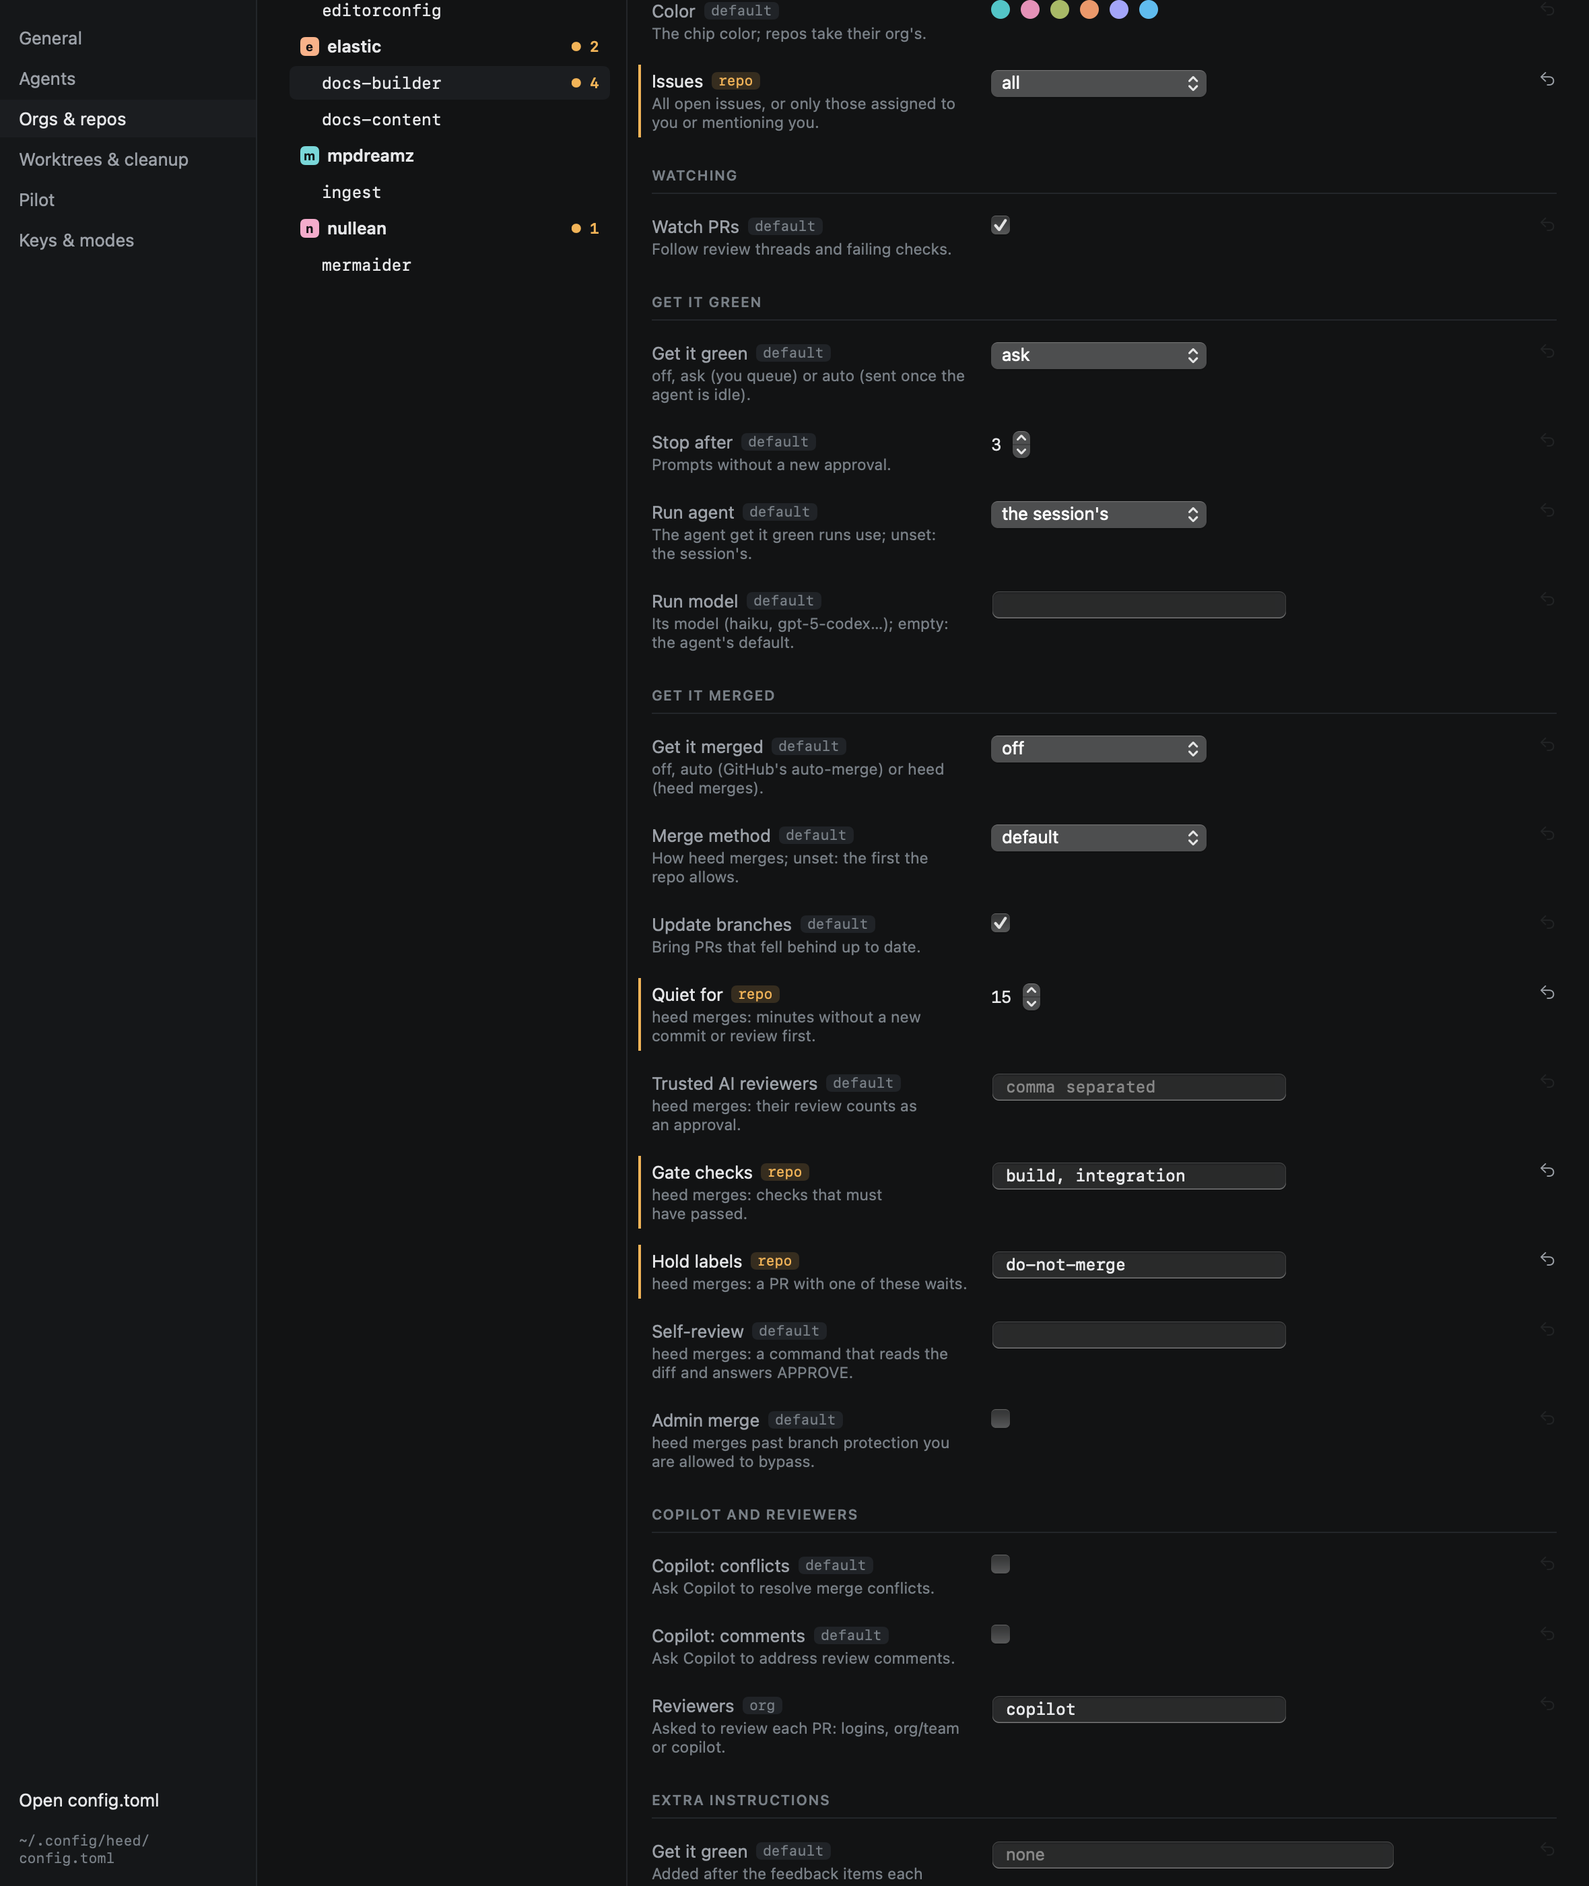
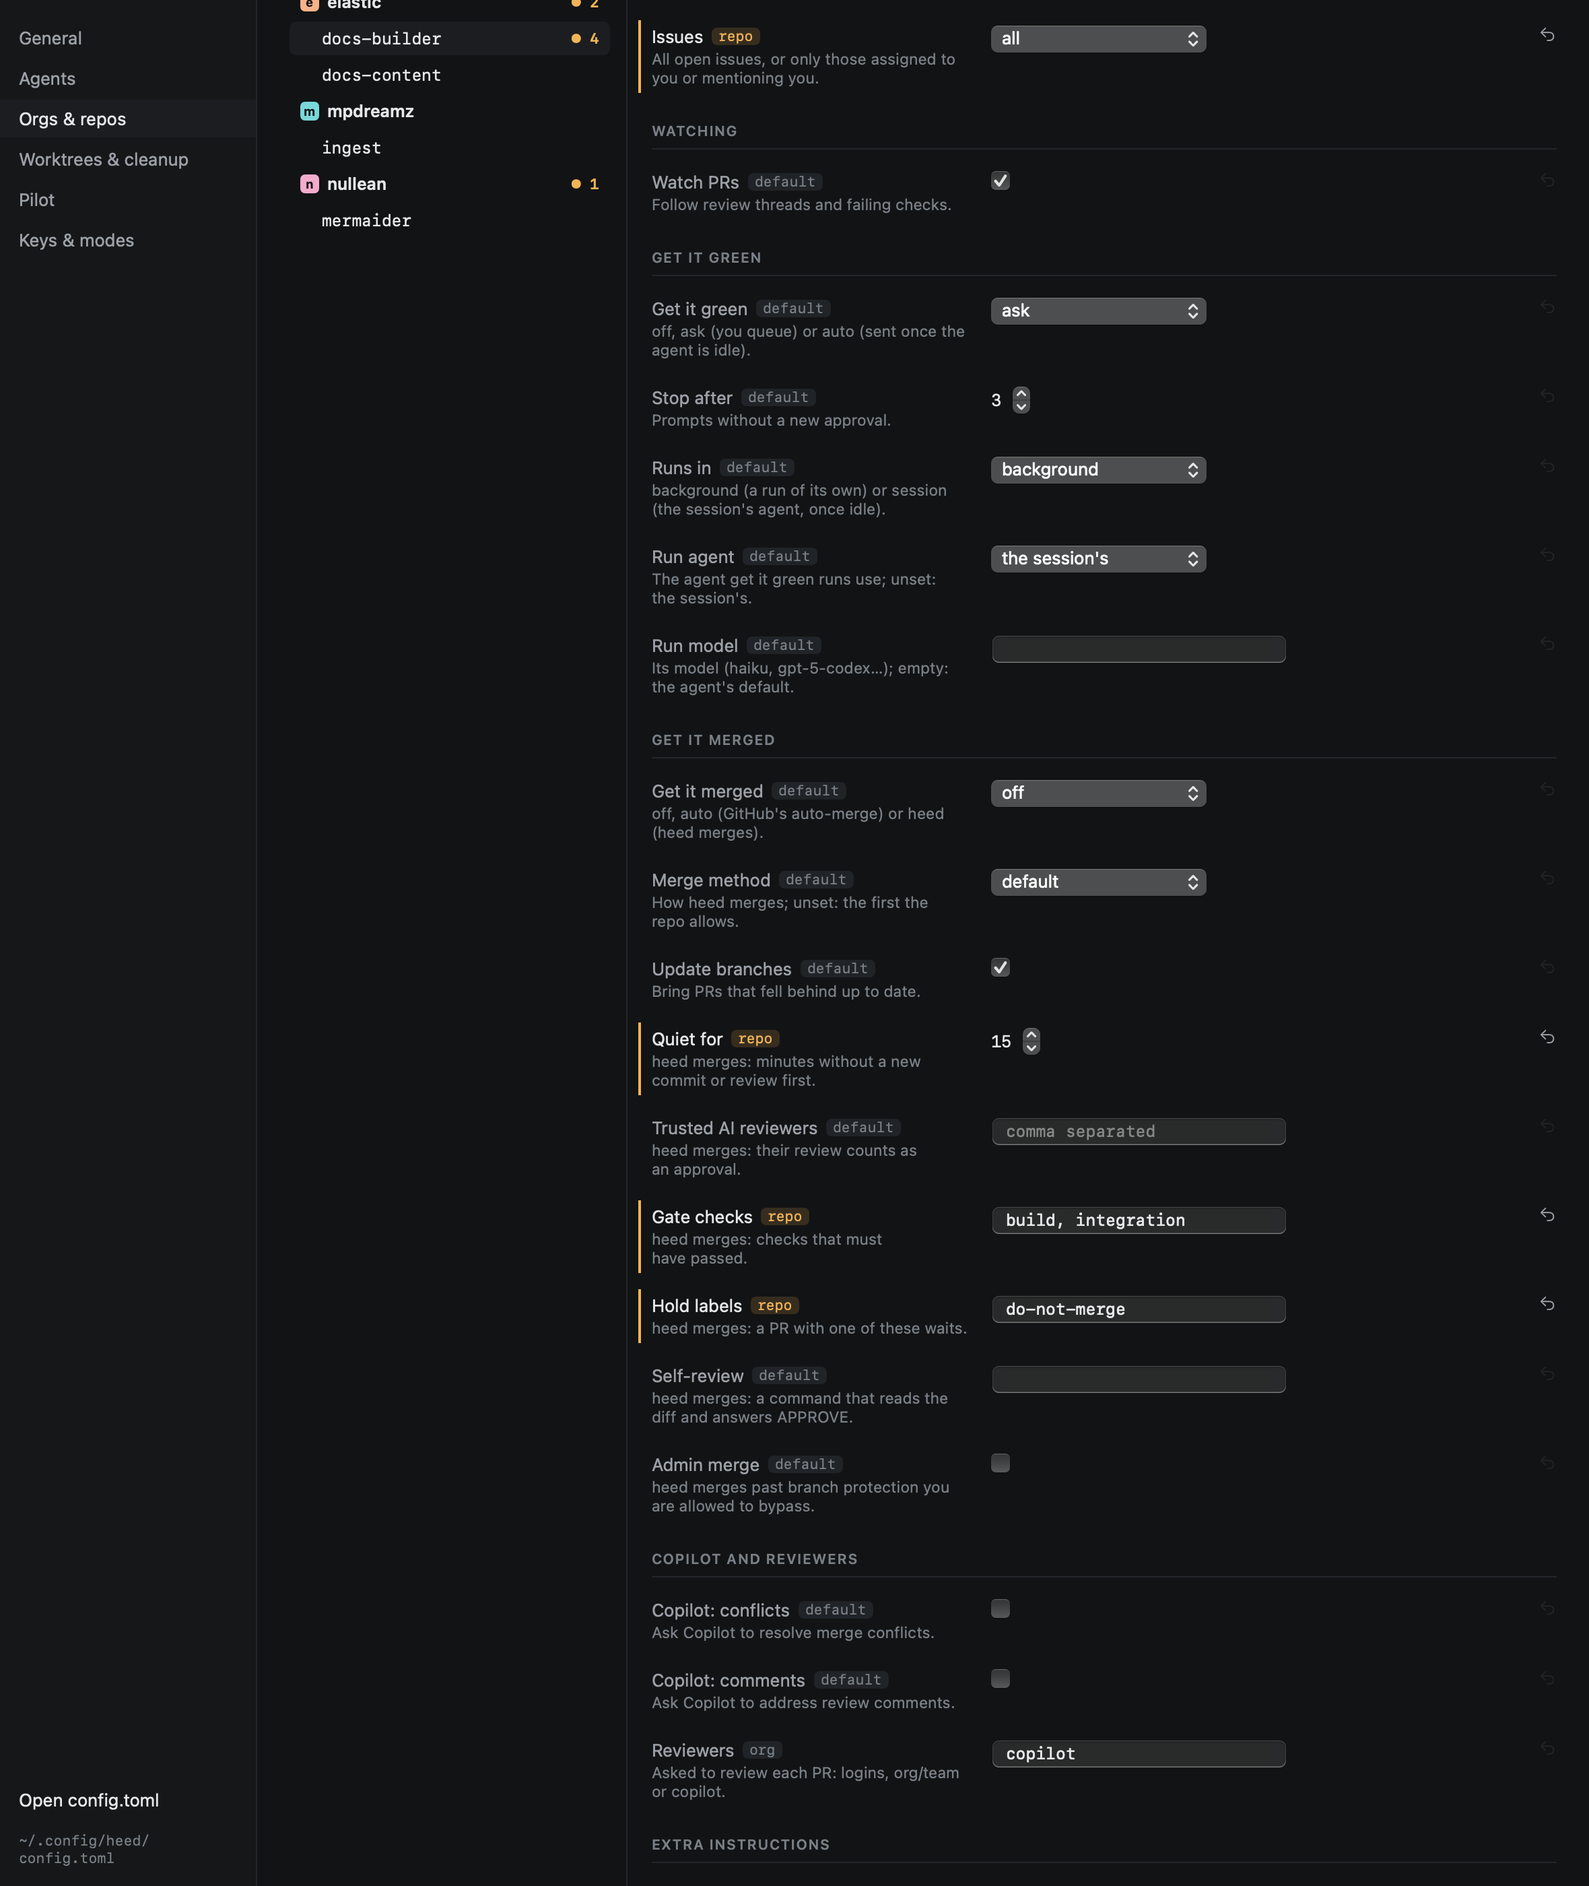
No get it green for merged PRs; run_in = "session" sends to the session's agent
Get it green started runs for PRs that were already merged or closed:
deliver() never looked at the PR's state. It now drops anything held for
a merged or closed PR and sends nothing, with or without zg.

run_in (background or session, per org and repo too, and Runs in on the
Pilot page) brings back sending to the session's own agent: one prompt
typed into its pane once it is idle and you have not typed in it for
five minutes (20 seconds after zg). No worktree, branch or tab, for
repos where a fresh worktree gets in the way, such as an agent that
asks to trust every new folder.

diff --git a/Sources/HeedCore/Config/Pilot.swift b/Sources/HeedCore/Config/Pilot.swift
@@ -14,6 +14,15 @@ public enum MergeMode: String, CaseIterable, Hashable, Sendable, Codable {
     }
 }
 
+/// Where get it green sends a PR's feedback: a background run (an agent in its own tab, worktree and branch), or the
+/// session's own agent, typed in once it is idle and you have left it alone for a while.
+public enum RunIn: String, CaseIterable, Hashable, Sendable {
+    case background, session
+
+    public var configName: String { rawValue }
+    public static func named(_ name: String) -> RunIn? { RunIn(rawValue: name.lowercased()) }
+}
+
 /// The pilot's settings for a PR: whether heed follows it, what get it green does with what it finds, and how long a
 /// pause lasts by default. From `[pilot]`, then `[orgs.<org>]`, then `[repos."org/name"]`; a hand-set choice on the PR
 /// itself wins over all of them (see `PullFeedback.effective`).
@@ -59,6 +68,8 @@ public struct PilotSettings: Hashable, Sendable {
     public var model: String?
     /// A run still working after this long is stopped.
     public var runTimeout: TimeInterval = 1800
+    /// Background runs, or the session's agent.
+    public var runIn: RunIn = .background
     /// Extra instructions heed adds to its prompts: after get it green's feedback items, to heed merge's self-review
     /// criteria, and after Start work's issue text. Additions only: what heed needs from a prompt stays as it is.
     public var greenInstructions = ""
@@ -105,6 +116,7 @@ public struct PilotOverrides: Hashable, Sendable {
     public var adminMerge: Bool?
     public var agent: String?
     public var model: String?
+    public var runIn: RunIn?
     /// Empty is a value too: a repo can clear what its org adds.
     public var greenInstructions: String?
     public var reviewInstructions: String?
@@ -131,7 +143,7 @@ public struct PilotOverrides: Hashable, Sendable {
             && copilotConflicts == nil && copilotComments == nil && reviewers == nil && quietMinutes == nil
             && trustedReviewers == nil && gateChecks == nil && holdLabels == nil && selfReview == nil && adminMerge ==
             nil && agent == nil && model == nil
-            && greenInstructions == nil && reviewInstructions == nil && startInstructions == nil
+            && greenInstructions == nil && reviewInstructions == nil && startInstructions == nil && runIn == nil
     }
 }
 
@@ -171,6 +183,7 @@ public struct PilotRules: Hashable, Sendable {
         settings.adminMerge = repoLevel.adminMerge ?? false
         settings.agent = repoLevel.agent ?? orgLevel.agent ?? defaults.agent
         settings.model = repoLevel.model ?? orgLevel.model ?? defaults.model
+        settings.runIn = repoLevel.runIn ?? orgLevel.runIn ?? defaults.runIn
         settings.greenInstructions = repoLevel.greenInstructions ?? orgLevel.greenInstructions
             ?? defaults.greenInstructions
         settings.reviewInstructions = repoLevel.reviewInstructions ?? orgLevel.reviewInstructions

diff --git a/Sources/HeedApp/Model/AppModel.swift b/Sources/HeedApp/Model/AppModel.swift
@@ -3841,6 +3841,12 @@ final class AppModel {
             if explicit { flash = "nothing queued (space queues an item)" }
             return
         }
+        // A merged or closed PR has nothing left to fix.
+        if let state = pullState(ref), state != .open {
+            pendingDelivery.remove(ref)
+            if explicit { flash = "#\(ref.number) is \(state == .merged ? "merged" : "closed"): nothing to send" }
+            return
+        }
         let effective = pilot(for: ref)
         guard explicit || (effective.green == .auto && effective.watching && !pipeline.roundsExhausted
             && !pipeline.isPaused(Clock.now))
@@ -3864,6 +3870,10 @@ final class AppModel {
             }
             return
         }
+        if pilotSettings(for: ref).runIn == .session {
+            deliverInSession(ref, prompt: prompt, explicit: explicit, session: session)
+            return
+        }
         // One run per PR at a time: the next round waits for it to end.
         if liveRun(for: ref) != nil || startingRuns.contains(ref.description) {
             pendingDelivery.insert(ref)
@@ -3882,6 +3892,35 @@ final class AppModel {
             else { return }
             markSent(ref, pipeline: &pipeline, session: &session, to: target)
         }
+    }
+
+    /// `run_in = "session"`: typed into the session's own agent, once it is idle and you have left it alone (five
+    /// minutes after your last keystroke; when you asked, 20 seconds).
+    private func deliverInSession(_ ref: PullRef, prompt: String, explicit: Bool, session: Session) {
+        guard var pipeline = feedback[ref.description], let layout = layouts[session.id],
+              let (_, paneID) = agentPane(in: layout)
+        else {
+            if explicit { flash = "\(session.title) has no agent pane to send to" }
+            return
+        }
+        switch Delivery.verdict(
+            state: session.state.state, lastTyped: lastTyped[session.id], typingGrace: explicit ? 20 : 300
+        ) {
+        case let .wait(reason):
+            pendingDelivery.insert(ref)
+            if explicit { flash = "waiting: \(reason); it goes once the agent is idle" }
+            logPilot(ref, .waiting, "\(pipeline.queued.count) queued, held: \(reason)")
+        case .deliver:
+            var session = session
+            TerminalSurfaces.shared.typeLine(prompt, paneID: paneID)
+            markSent(ref, pipeline: &pipeline, session: &session, to: session.agent)
+        }
+    }
+
+    /// Whether a PR is open, merged or closed, as last seen; nil before heed has seen it.
+    private func pullState(_ ref: PullRef) -> PullRequest.State? {
+        if let state = github.pull(ref)?.state { return state }
+        return pullDetails[ref.description]?.state.flatMap(PullRequest.State.init(rawValue:))
     }
 
     /// The queued items went out: the pipeline counts a round, the session and the pilot log say where to.

diff --git a/Sources/HeedCore/Config/HeedConfig.swift b/Sources/HeedCore/Config/HeedConfig.swift
@@ -273,6 +273,15 @@ public enum ConfigLoader {
             }
             overrides.agent = string(base + ["agent"]).flatMap { $0.isEmpty ? nil : $0.lowercased() }
             overrides.model = string(base + ["model"]).flatMap { $0.isEmpty ? nil : $0 }
+            if let text = string(base + ["run_in"]) {
+                if let runIn = RunIn.named(text) {
+                    overrides.runIn = runIn
+                } else {
+                    problems.append(ConfigProblem(
+                        path: (base + ["run_in"]).joined(separator: "."), message: "expected background or session"
+                    ))
+                }
+            }
             let trimmed = { (key: String) in
                 string(base + [key]).map { $0.trimmingCharacters(in: .whitespacesAndNewlines) }
             }
@@ -298,6 +307,7 @@ public enum ConfigLoader {
         if let command = pilotDefaults.selfReview { config.pilot.defaults.selfReview = command.isEmpty ? nil : command }
         config.pilot.defaults.agent = pilotDefaults.agent
         config.pilot.defaults.model = pilotDefaults.model
+        if let runIn = pilotDefaults.runIn { config.pilot.defaults.runIn = runIn }
         config.pilot.defaults.greenInstructions = pilotDefaults.greenInstructions ?? ""
         config.pilot.defaults.reviewInstructions = pilotDefaults.reviewInstructions ?? ""
         config.pilot.defaults.startInstructions = pilotDefaults.startInstructions ?? ""
@@ -553,9 +563,12 @@ public enum ConfigLoader {
     green = "ask"
     # Prompts sent without a new approval before get it green stops.
     max_rounds = 3
-    # Each round of get it green (or get it merged) runs in the background: an agent in its own tab, worktree and
-    # branch (heed/get-it-green/<branch>), all removed when it is done. Which agent and model those runs use; empty:
-    # the session's agent and that agent's default model. Also per org and per repo.
+    # Where each round of get it green (or get it merged) goes: background (an agent in its own tab, worktree and branch,
+    # heed/get-it-green/<branch>, all removed when it is done) or session (the session's own agent, once it is idle and
+    # you have not typed in it for five minutes). Also per org and per repo.
+    run_in = "background"
+    # Which agent and model background runs use; empty: the session's agent and that agent's default model. Also per
+    # org and per repo.
     agent = ""
     model = ""
     # A run still working after this long is stopped.

diff --git a/Sources/HeedApp/Views/SettingsView.swift b/Sources/HeedApp/Views/SettingsView.swift
@@ -427,10 +427,24 @@ private struct PilotSettingsView: View {
                 }
             }
             Field(
+                label: "Runs in",
+                detail: "Background: each round is an agent in its own tab, worktree and branch (heed/get-it-green/…), "
+                    + "all removed when it is done. Session: the session's own agent, once it is idle and you have not "
+                    + "typed in it for five minutes."
+            ) {
+                Picker("", selection: Binding(
+                    get: { pilot.defaults.runIn },
+                    set: { model.setConfig(["pilot", "run_in"], .string($0.configName)) }
+                )) {
+                    ForEach(RunIn.allCases, id: \.self) { Text($0.rawValue).tag($0) }
+                }
+                .labelsHidden()
+                .frame(width: 200)
+            }
+            Field(
                 label: "Run agent",
-                detail: "Each round runs in the background: an agent in its own tab, worktree and branch "
-                    + "(heed/get-it-green/…), all removed when it is done. Which agent; the session's when unset. "
-                    + "Spend tokens of an agent you do not use for real work."
+                detail: "Which agent background runs use; the session's when unset. Spend tokens of an agent you do "
+                    + "not use for real work."
             ) {
                 Picker("", selection: Binding(
                     get: { pilot.defaults.agent ?? "" },

diff --git a/Sources/HeedCore/Config/Overrides.swift b/Sources/HeedCore/Config/Overrides.swift
@@ -137,6 +137,14 @@ public enum Overrides {
             { .integer($0.maxRounds) }
         ),
         pilot(
+            "run_in",
+            "Runs in",
+            "background (a run of its own) or session (the session's agent, once idle).",
+            .choice(RunIn.allCases.map(\.configName)),
+            { $0.runIn.map { .text($0.configName) } },
+            { .text($0.runIn.configName) }
+        ),
+        pilot(
             "agent",
             "Run agent",
             "The agent get it green runs use; unset: the session's.",
@@ -298,7 +306,7 @@ public enum Overrides {
     public static let groups: [(title: String, keys: [String])] = [
         ("General", ["color", "issues"]),
         ("Watching", ["watch"]),
-        ("Get it green", ["green", "max_rounds", "agent", "model"]),
+        ("Get it green", ["green", "max_rounds", "run_in", "agent", "model"]),
         ("Get it merged", [
             "merge", "merge_method", "update_branches", "quiet_minutes", "trusted_reviewers", "gate_checks",
             "hold_labels", "self_review", "admin_merge",

diff --git a/Tests/HeedCoreTests/RunsTests.swift b/Tests/HeedCoreTests/RunsTests.swift
@@ -79,6 +79,23 @@ struct RunsTests {
         #expect(HeedConfig.default.pilot.defaults.agent == nil && HeedConfig.default.pilot.defaults.runTimeout == 1800)
     }
 
+    @Test func runInDefaultsToBackgroundAndIsOverridable() {
+        let (config, problems) = ConfigLoader.decode("""
+        [orgs.o]
+        run_in = "Session"
+        [repos."o/r"]
+        run_in = "background"
+        [repos."o/x"]
+        run_in = "tab"
+        """)
+        #expect(problems.map(\.path) == ["repos.o/x.run_in"])
+        let pilot = config?.pilot ?? PilotRules()
+        #expect(pilot.defaults.runIn == .background)
+        #expect(pilot.resolve(Repo(org: "o", name: "other")).runIn == .session)
+        #expect(pilot.resolve(Repo(org: "o", name: "r")).runIn == .background)
+        #expect(pilot.resolve(Repo(org: "o", name: "x")).runIn == .session)
+    }
+
     @Test func instructionsInheritAndARepoCanClearThem() {
         let (config, problems) = ConfigLoader.decode("""
         [pilot]

diff --git a/docs/github/watch.md b/docs/github/watch.md
@@ -157,8 +157,8 @@ never set follow the settings.
 
 ## Runs
 
-Get it green never types into your session's agent. Each round (heed sending on its own with `green = "auto"`, or
-`zg` with items queued) is a **run** in the background:
+By default get it green never types into your session's agent. Each round (heed sending on its own with
+`green = "auto"`, or `zg` with items queued) is a **run** in the background:
 
 - **Where:** a worktree of its own (`<worktree_root>/heed/<repo>/get-it-green-<branch>`) on a branch of its own,
   `heed/get-it-green/<branch>`, tracking the pull request's. Conflicts with the base get `heed/get-it-merged/…`.
@@ -185,6 +185,15 @@ one takes you to its tab.
 ![A run working in the background beside the session's agent](../images/shots/sessions/run-tab.png)
 
 ![A run, read: its agent and model, what it pushed, and its last screen](../images/shots/sessions/run-reader.png)
+
+### In the session instead
+
+`run_in = "session"` (per org and repo too, or **Runs in** on the Pilot page) sends each round to the session's own
+agent instead, as one prompt typed into its pane. It waits until that agent is idle or done, never while it works,
+is blocked or asks, and until you have not typed in it for five minutes (20 seconds after `zg`). No worktree, branch or
+tab is made. Use it where a fresh worktree gets in the way, such as an agent that asks to trust every new folder.
+
+Nothing is sent for a PR once it is merged or closed, in either mode.
 
 ### Leftovers
 
@@ -237,6 +246,7 @@ green = "ask"        # off, ask or auto
 max_rounds = 3       # prompts without a new approval before it stops
 agent = ""           # runs' agent (codex, claude, ...); empty: the session's
 model = ""           # their model (haiku, gpt-5-codex, ...); empty: the agent's default
+run_in = "background" # background (a run of its own) or session (the session's agent, once idle)
 run_timeout = "30m"  # a run still working after this long is stopped
 pause = "1h"         # what zp pauses for
 merge = "off"        # off, auto or heed

diff --git a/docs/configuration/reference.md b/docs/configuration/reference.md
@@ -70,9 +70,12 @@ watch = true
 green = "ask"
 # Prompts sent without a new approval before get it green stops.
 max_rounds = 3
-# Each round of get it green (or get it merged) runs in the background: an agent in its own tab, worktree and
-# branch (heed/get-it-green/<branch>), all removed when it is done. Which agent and model those runs use; empty:
-# the session's agent and that agent's default model. Also per org and per repo.
+# Where each round of get it green (or get it merged) goes: background (an agent in its own tab, worktree and branch,
+# heed/get-it-green/<branch>, all removed when it is done) or session (the session's own agent, once it is idle and
+# you have not typed in it for five minutes). Also per org and per repo.
+run_in = "background"
+# Which agent and model background runs use; empty: the session's agent and that agent's default model. Also per
+# org and per repo.
 agent = ""
 model = ""
 # A run still working after this long is stopped.
